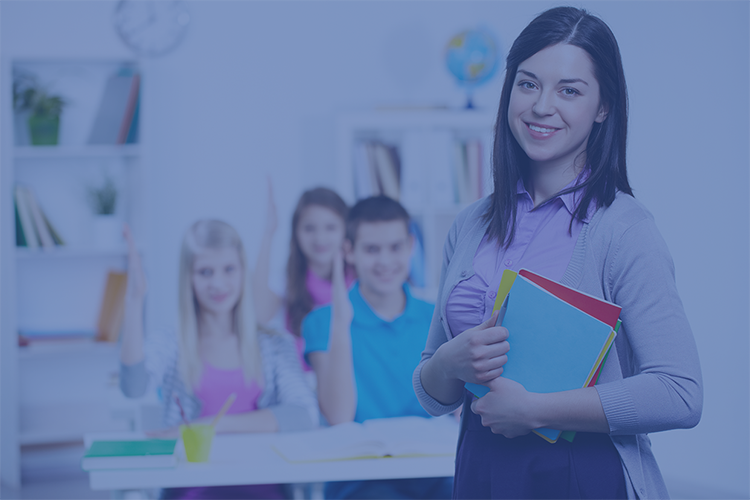
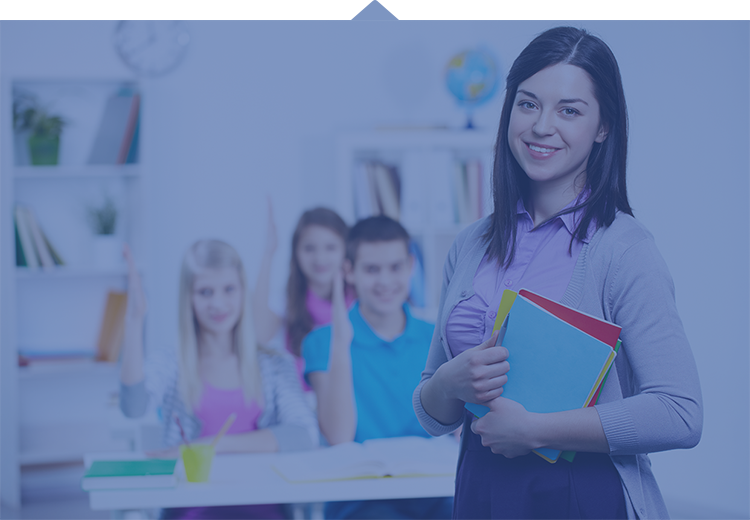
adjust responsive style in index page

diff --git a/src/less/app/index.less b/src/less/app/index.less
@@ -17,22 +17,22 @@
   padding: 0;
   z-index: 1;
   .slider-1 {
-    background: url("@{images-root}/index-banner-1.png") no-repeat;
+    background: url("@{images-root}/index-banner-1.png") no-repeat center;
   }
 
   .slider-2 {
-    background: url("@{images-root}/index-banner-2.png") no-repeat;
+    background: url("@{images-root}/index-banner-2.png") no-repeat center;
   }
 
   .slider-3 {
-    background: url("@{images-root}/index-banner-3.png") no-repeat;
+    background: url("@{images-root}/index-banner-3.png") no-repeat center;
   }
 
   li[class*='slider-'] {
     position: relative;
     display: block;
     float: left;
-    background-size: contain;
+    background-size: cover;
     height: 100%;
   }
 }
@@ -102,18 +102,18 @@
     display: flex;
     justify-content: center;
     &.brand-bg-1 {
-      background: url("@{images-root}/brand-profession.png") no-repeat;
-      background-size: contain;
+      background: url("@{images-root}/brand-profession.png") no-repeat center;
+      background-size: cover;
     }
 
     &.brand-bg-2 {
-      background: url("@{images-root}/brand-teaching.png") no-repeat;
-      background-size: contain;
+      background: url("@{images-root}/brand-teaching.png") no-repeat center;
+      background-size: cover;
     }
 
     &.brand-bg-3 {
-      background: url("@{images-root}/brand-background.png") no-repeat;
-      background-size: contain;
+      background: url("@{images-root}/brand-background.png") no-repeat center;
+      background-size: cover;
     }
     &:nth-child(2n+1) {
       .brand-content {
@@ -223,19 +223,52 @@
   .index-section {
     font-size: 1.4rem;
   }
+  .index-banner {
+    .rectangle {
+      width: 76%;
+    }
+    .banner-slider {
+      li[class*='slider-'] {
+        background-size: cover;
+      }
+    }
+    .banner-txt {
+      margin-top: 14px;
+      p {
+        font-size: 1.4rem;
+      }
+      .main {
+        font-size: 1.8rem;
+      }
+    }
+    .angle {
+      &.angle-left {
+        left: 10px;
+      }
+      &.angle-right {
+        right: 10px;
+      }
+    }
+    .blockage {
+      bottom: 4px;
+    }
+  }
   .index-section--brand {
     .brand-bg {
       height: 480px;
       &.brand-bg-1 {
         background: url("@{images-root}/mobile-index-brand-1.png") no-repeat;
+        background-size: cover;
       }
 
       &.brand-bg-2 {
         background: url("@{images-root}/mobile-index-brand-2.png") no-repeat;
+        background-size: cover;
       }
 
       &.brand-bg-3 {
         background: url("@{images-root}/mobile-index-brand-3.png") no-repeat;
+        background-size: cover;
       }
     }
     .brand-content {

diff --git a/src/app/pages/index/index.html b/src/app/pages/index/index.html
@@ -1,4 +1,4 @@
-<div class="index-banner" img-resize="{height:640,width:1920}" ng-mouseenter="stopAutoAnimate()"
+<div class="index-banner" img-resize="{height:640,width:1920}" m-size="{width: 750, height: 360}" ng-mouseenter="stopAutoAnimate()"
      ng-mouseleave="autoAnimate()">
   <ul class="banner-slider">
     <li class="slider-3">
@@ -63,7 +63,7 @@
     <small>BRAND ADVANTAGE</small>
   </h2>
   <div class="section-content">
-    <div class="brand-bg brand-bg-1" img-resize="{height:790,width:1920}" m-size="{width: 750, height: 500}">
+    <div class="brand-bg brand-bg-1" img-resize="{height:790,width:1920}" m-size="{width: 750, height: 520}">
       <div class="brand-content">
         <i class="iconfont icon-good"></i>
         <div class="brand-content__text">

diff --git a/src/app/directives/resize/imgResize.directive.js b/src/app/directives/resize/imgResize.directive.js
@@ -25,8 +25,8 @@
       var changeSize = function () {
         element.css('height', h_scale * w.innerWidth());
         if (element.hasClass('index-banner')) {
-          element.css('width', w_scale * w.innerWidth());
-          element.children().first().find('li').css('width', w_scale * w.innerWidth());
+          element.css('width', w.innerWidth());
+          element.children().first().find('li').css('width', w.innerWidth());
         } else {
           element.css('width', '100%');
         }

diff --git a/src/less/conf/variables.less b/src/less/conf/variables.less
@@ -55,6 +55,7 @@
 @screen-lg-min: @screen-lg;
 @screen-lg-desktop: @screen-lg-min;
 
+@screen-xxs-max: (@screen-xs-min - 1);
 @screen-xs-max: (@screen-sm-min - 1);
 @screen-sm-max: (@screen-md-min - 1);
 @screen-md-max: (@screen-lg-min - 1);
